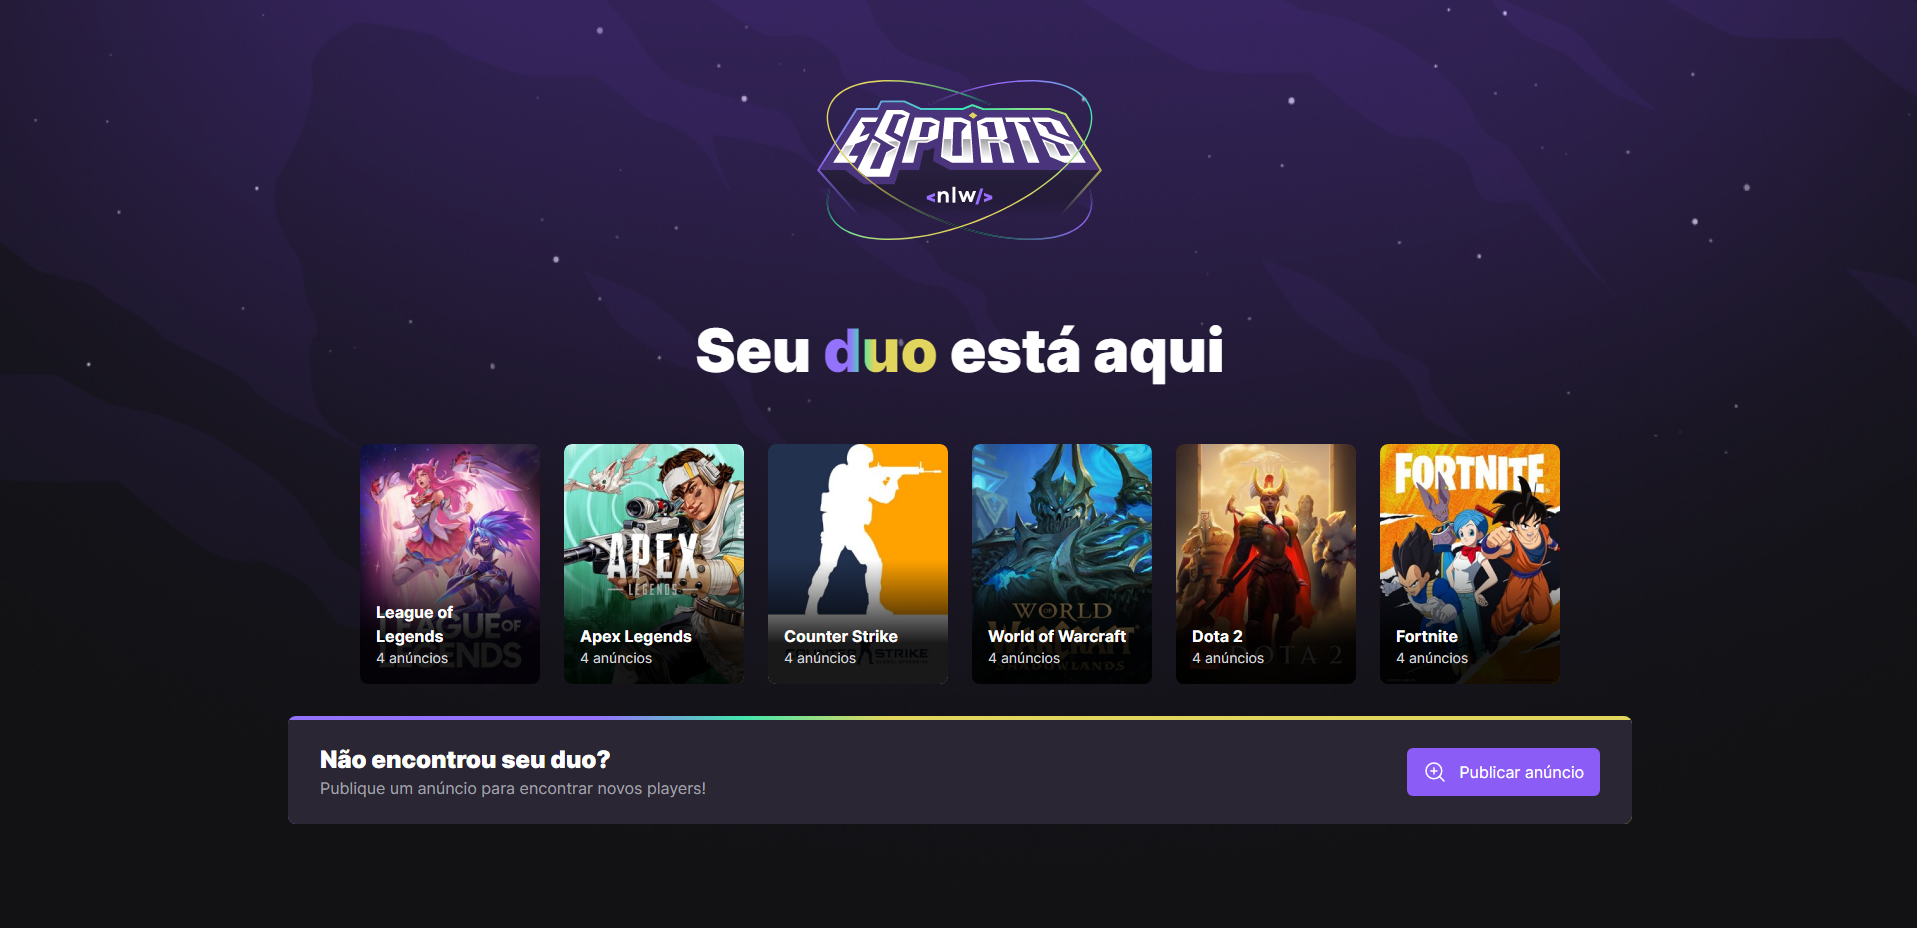
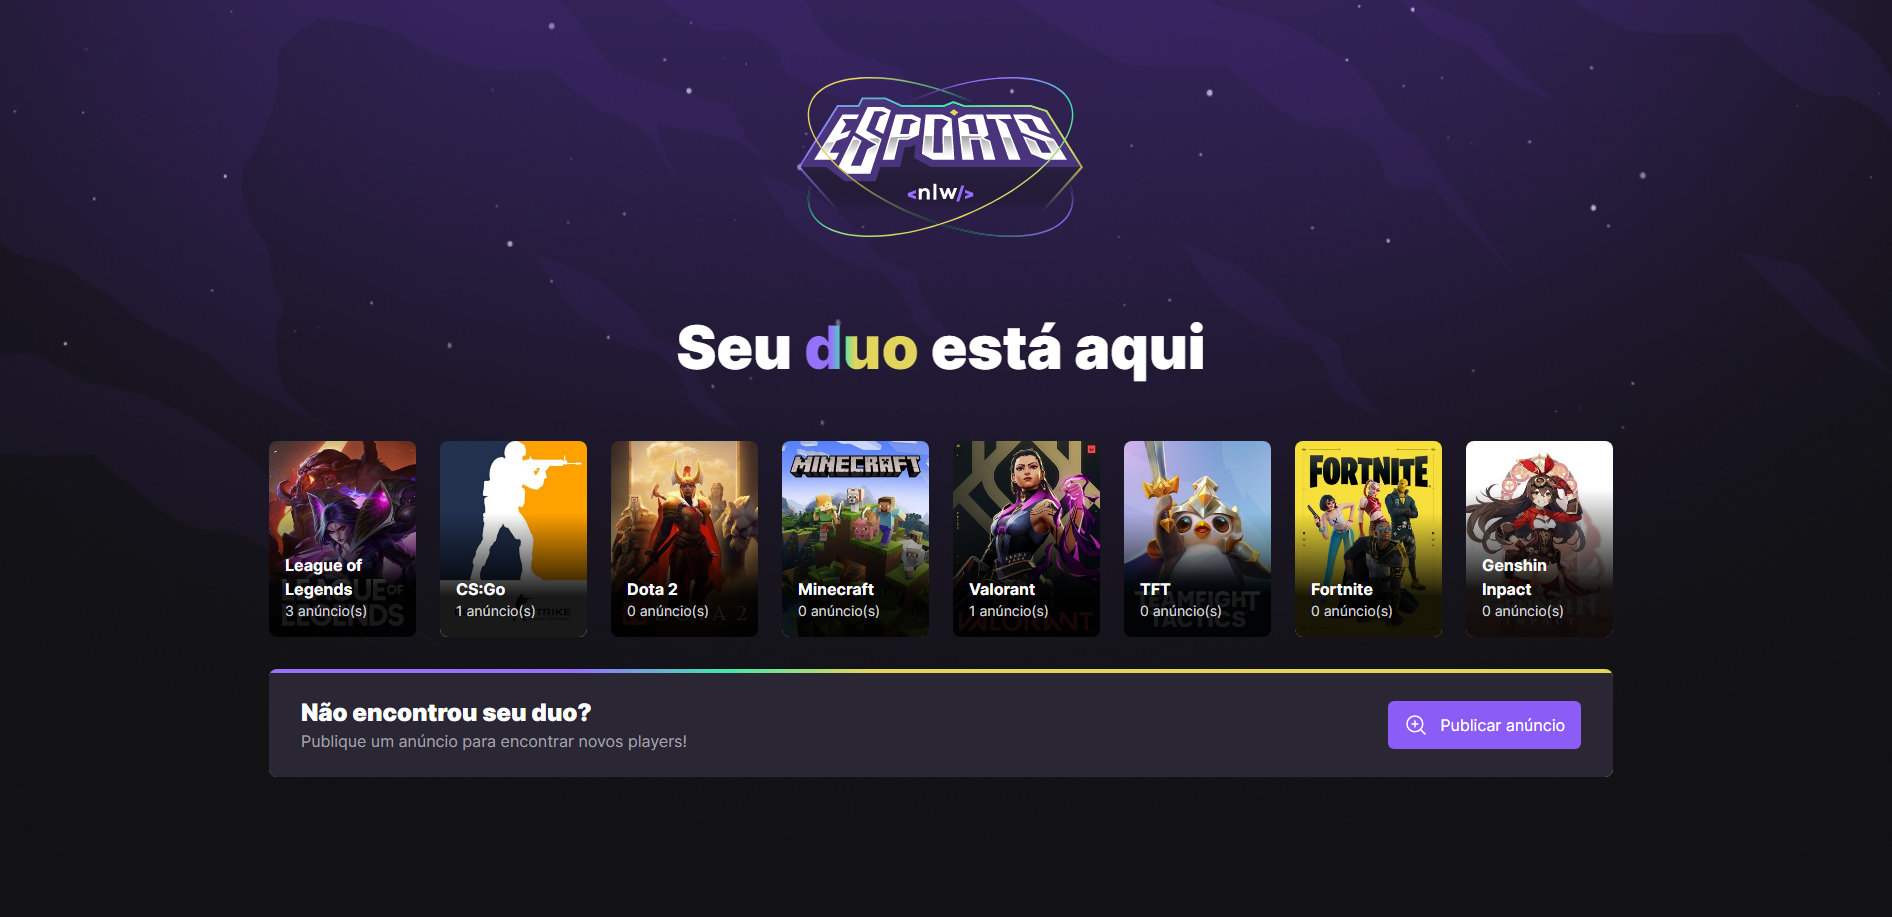
demo

Changed region(s): [[0.1247, 0.458, 0.8732, 0.8855], [0.4054, 0.0611, 0.5925, 0.2748], [0.343, 0.3359, 0.6549, 0.4275]]

diff --git a/web/Readme.md b/web/Readme.md
@@ -1,3 +1,6 @@
 # Web Version
 
 <img src="public/demo.png"  height="500px" >
+
+<img src="public/demo2.png"  height="500px" >
+
